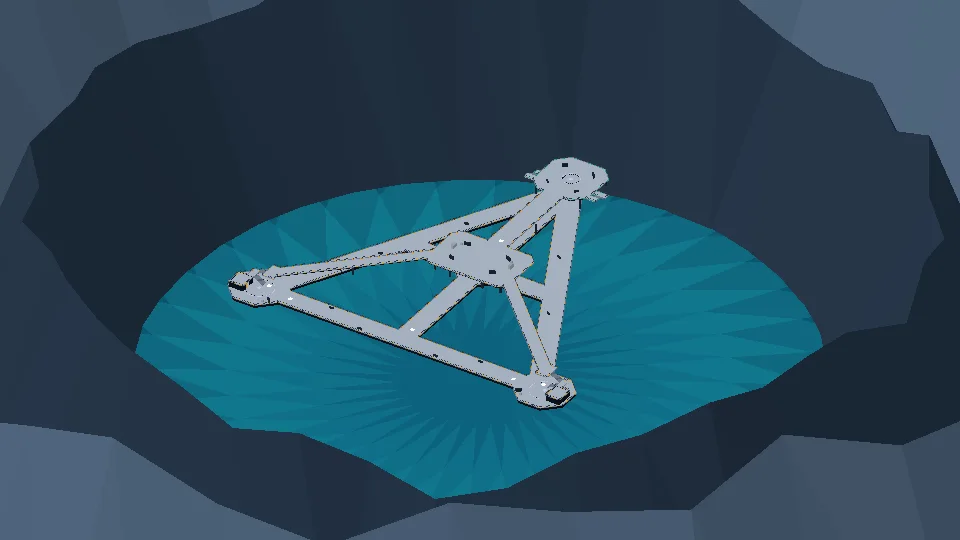
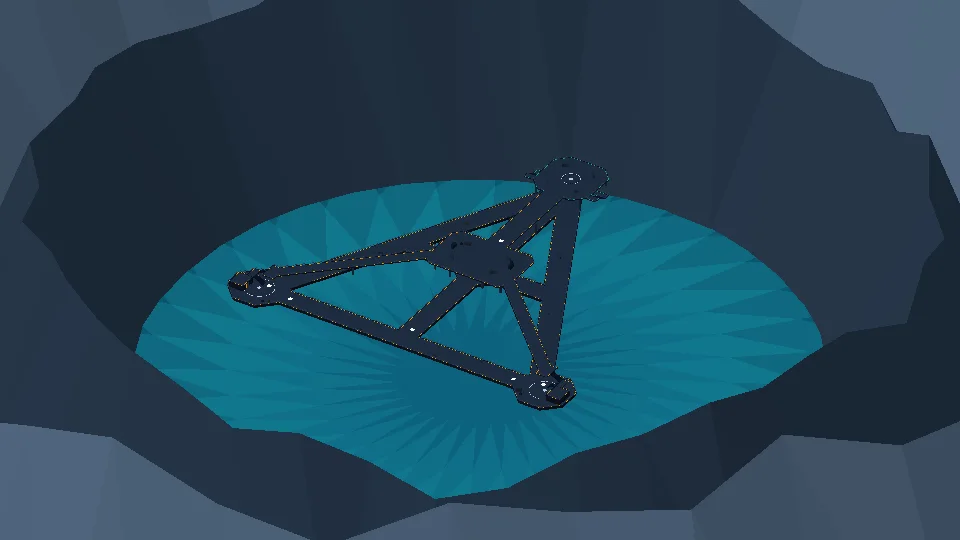
External agent changes

Changed region(s): [[0.2188, 0.2963, 0.6562, 0.7704]]

diff --git a/src/components/duelist/menu/OnlineArenaPreview.jsx b/src/components/duelist/menu/OnlineArenaPreview.jsx
@@ -1,125 +1,20 @@
-import {createIndustrialCtfArena,applyIndustrialCtfLighting} from '../client/maps/industrialCtfArena.mjs';
-import { useEffect, useRef, useState } from 'react';
-import * as THREE from 'three';
-import { createSceneRenderer, destroySceneRenderer } from '../../../lib/webgpuSceneRenderer.js';
-import { createDuelistControlPointArena } from '../client/maps/controlPointArena.mjs';
-import {createEscortArena,applyEscortDaylight} from '../client/maps/escortArena.mjs';
-import {createEscortProps} from '../client/escortProps.mjs';
-import { applyControlPointDaylight } from '../client/maps/controlPointDaylight.mjs';
-import { createArena, createSceneLighting } from '../client/arena.mjs';
-import { getModeArenaLayout } from '../sim/modeArenaLayout.mjs';
+import { useState } from 'react';
+import { mapPicture } from './mapPictures.mjs';
 
-// A lightweight orbiting map overview, not a spectator feed. The actual
-// match runs on the authoritative server even when this browser leaves.
-export default function OnlineArenaPreview({ mode }) {
-  const mountRef = useRef(null);
-  const [failed, setFailed] = useState(false);
-  const [visible, setVisible] = useState(false);
-  useEffect(() => {
-    const mount = mountRef.current;
-    if (!mount) return;
-    if (typeof IntersectionObserver === 'undefined') { setVisible(true); return; }
-    const observer = new IntersectionObserver(([entry]) => setVisible(entry.isIntersecting), { threshold: 0.01 });
-    observer.observe(mount);
-    return () => observer.disconnect();
-  }, []);
-  useEffect(() => {
-    const mount = mountRef.current;
-    if (!mount || !visible) return;
-    setFailed(false);
-    let active = true, frame = 0, renderer, observer, imported, daylight, escort;
-    const scene = new THREE.Scene();
-    const geometry = new THREE.BoxGeometry(1, 1, 1);
-    const materials = new Map();
-    const material = color => {
-      if (!materials.has(color)) materials.set(color, new THREE.MeshBasicMaterial({ color }));
-      return materials.get(color);
-    };
-    const box = (x,y,z,w,h,d,color) => {
-      const mesh = new THREE.Mesh(geometry, material(color));
-      mesh.position.set(x,y,z); mesh.scale.set(w,h,d); scene.add(mesh);
-    };
-    const layout = getModeArenaLayout(mode);
-    const radius = layout?.radius || (mode === 'duel' ? 12 : 18);
-    scene.background = new THREE.Color(0x081422);
-    if(layout?.ctfImported){imported=createIndustrialCtfArena(scene,{preview:true,textureResolution:512});}
-    else if(layout?.escortImported){imported=createEscortArena(scene);escort=createEscortProps(scene);escort.update(0);}
-    else if(layout?.imported){imported=createDuelistControlPointArena(THREE);imported.setLayerVisibility('trusses',false);scene.add(imported.root);}
-    const authoredFloor = layout?.footprint ? createArena({ radius, footprint: layout.footprint }) : null;
-    if (!imported) {
-    if (authoredFloor) {
-      scene.add(authoredFloor.group);
-      scene.add(new THREE.HemisphereLight(0xb8d9ff, 0x334455, 2));
-    } else {
-    box(0,-0.3,0,radius*2,0.5,radius*2,0x192c40);
-    for (const side of [-1,1]) {
-      box(side*radius,0.3,0,0.3,0.6,radius*2,0x44657f);
-      box(0,0.3,side*radius,radius*2,0.6,0.3,0x44657f);
-    }
-    }
-    for (const p of layout?.parts || []) {
-      box((p.x0+p.x1)/2,(p.y0+p.y1)/2,(p.z0+p.z1)/2,p.x1-p.x0,p.y1-p.y0,p.z1-p.z0,
-        p.kind === 'deck' ? 0x53738e : p.kind === 'cover' ? 0x89734d : 0x36526c);
-    }
-    // Distinct objective glyphs for mode identification, not authoritative
-    // objective coordinates. Layout geometry above is shared with simulation.
-    const blue=0x4eb7ff, red=0xff7373, gold=0xe9c175;
-    if(mode === 'control') for (const point of layout?.controlPoints || []) box(point.x,3.45,point.z,2.5,0.3,2.5,gold);
-    else if(mode === 'escort') {
-      box(0,0.05,0,2,0.1,radius*1.65,gold);
-      box(0,0.8,0,2.5,1.6,4,blue);
-    } else if(mode === 'ctf' || mode === 'football' || mode === 'tdm') {
-      box(-radius*0.7,0.2,0,3,0.4,5,blue);
-      box(radius*0.7,0.2,0,3,0.4,5,red);
-    } else if(mode === 'duel') {
-      box(-3,0.1,0,2,0.2,2,blue);box(3,0.1,0,2,0.2,2,red);
-    } else {
-      for(let i=0;i<6;i++) {
-        const a=i*Math.PI/3;box(Math.cos(a)*7,0.1,Math.sin(a)*7,1.5,0.2,1.5,gold);
-      }
-    }
-    }
-    const camera = new THREE.PerspectiveCamera(42,1,0.1,250);
-    const resize = () => {
-      if (!renderer || !active) return;
-      const w=Math.max(1,mount.clientWidth), h=Math.max(1,mount.clientHeight);
-      camera.aspect=w/h;camera.updateProjectionMatrix();renderer.setSize(w,h,false);
-    };
-    try {
-      const created=createSceneRenderer('duelist-adventure',{antialias:false,powerPreference:'low-power'});
-      renderer=created.renderer;
-      if(imported){const lights=createSceneLighting(scene);scene.add(lights.sun.target);renderer.toneMapping=THREE.ACESFilmicToneMapping;daylight=layout.ctfImported?applyIndustrialCtfLighting({scene,camera,renderer,lights,preview:true}):layout.escortImported?applyEscortDaylight({scene,camera,renderer,lights,environment:imported.environment}):applyControlPointDaylight({scene,camera,renderer,lights,materials:imported.materials});}
-      renderer.setPixelRatio(Math.min(window.devicePixelRatio||1,1.25));
-      renderer.domElement.style.cssText='display:block;width:100%;height:100%';
-      renderer.domElement.setAttribute('aria-hidden','true');
-      mount.appendChild(renderer.domElement);
-      Promise.resolve(created.ready).then(()=>{
-        if(!active)return;
-        resize();
-        if(typeof ResizeObserver !== 'undefined') {observer=new ResizeObserver(resize);observer.observe(mount);}
-        let last=0;
-        const draw=t=>{
-          if(!active)return;
-          frame=requestAnimationFrame(draw);
-          if(document.hidden || t-last<66)return;
-          daylight?.update(Math.min(.1,(t-last)/1000));last=t;
-          const angle=window.matchMedia('(prefers-reduced-motion: reduce)').matches ? 0.7 : t*0.00012;
-          if(layout?.ctfImported){imported.update(.066);camera.fov=68;camera.updateProjectionMatrix();camera.position.set(Math.sin(angle)*5,14.6,25.8);camera.lookAt(0,5,-4);}else{camera.position.set(Math.sin(angle)*radius*2.5,radius*2.4,Math.cos(angle)*radius*2.5);camera.lookAt(0,0,0);}
-          try{renderer.render(scene,camera);}catch{setFailed(true);cancelAnimationFrame(frame);}
-        };
-        frame=requestAnimationFrame(draw);
-      }).catch(()=>{if(active)setFailed(true);});
-    } catch {setFailed(true);}
-    return ()=>{
-      active=false;cancelAnimationFrame(frame);observer?.disconnect();
-      daylight?.dispose();escort?.dispose();imported?.dispose();authoredFloor?.dispose();
-      geometry.dispose();for(const m of materials.values())m.dispose();
-      if(renderer){renderer.domElement.remove();destroySceneRenderer(renderer);}
-    };
-  },[mode, visible]);
-  return <div className="relative overflow-hidden rounded border border-white/15 bg-slate-950" style={{height: 'clamp(130px, 28vh, 280px)'}}>
-    <div ref={mountRef} className="absolute inset-0" />
-    {failed && <div className="absolute inset-0 grid place-items-center text-sm text-white/65">3D preview unavailable. Server joining is unaffected.</div>}
-    <span className="pointer-events-none absolute bottom-2 left-3 rounded bg-slate-950/80 px-2 py-1 text-xs text-white/75">3D arena overview · not live footage</span>
-  </div>;
+// A regular static image. Never mount a canvas or load a map while browsing.
+export default function OnlineArenaPreview({ mode, compact = false }) {
+  const src = mapPicture(mode);
+  const [failedSrc, setFailedSrc] = useState(null);
+  return (
+    <div className="relative overflow-hidden rounded border border-white/15 bg-slate-950"
+      style={compact ? {width:'100%', height:'100%', minHeight:80} : {height:'clamp(130px, 28vh, 280px)'}}>
+      {src && failedSrc !== src ? (
+        <img src={src} alt="" width={960} height={540} loading="lazy" decoding="async" draggable={false}
+          className="absolute inset-0 h-full w-full object-cover"
+          onError={() => setFailedSrc(src)} />
+      ) : (
+        <div className="absolute inset-0 grid place-items-center text-xs text-white/65">Map picture unavailable</div>
+      )}
+    </div>
+  );
 }

diff --git a/src/components/duelist/menu/OnlinePlayPage.jsx b/src/components/duelist/menu/OnlinePlayPage.jsx
@@ -1,4 +1,4 @@
-import { lazy, Suspense, useState } from 'react';
+import { useState } from 'react';
 import { useNavigate, useSearch } from '@tanstack/react-router';
 import { RefreshCw, Users, ArrowRight } from 'lucide-react';
 import { MenuShell } from './MenuPages.jsx';
@@ -7,16 +7,13 @@ import { useLobby } from './useLobby.js';
 import OnlineArenaPreview from './OnlineArenaPreview.jsx';
 import { ONLINE_SERVER_MODES, persistentServerCards, serverJoinSearch, localArenaSearch } from './serverBrowser.mjs';
 
-const ImportedControlPointPreview = lazy(() => import('./ImportedControlPointPreview.jsx'));
-
-// Every 3D card represents one exact public room, not a mode queue.
+// Every static map card represents one exact public room, not a mode queue.
 export default function OnlinePlayPage() {
   const navigate = useNavigate();
   const search = useSearch({ strict: false });
   const [mode, setMode] = useState(() =>
     ONLINE_SERVER_MODES.includes(search?.mode) ? search.mode : 'all');
   const [testing, setTesting] = useState(false);
-  const [importPreview, setImportPreview] = useState(false);
   const lobby = useLobby();
   const rooms = persistentServerCards(lobby.online ? lobby.matches : null, mode);
   const playLocal = room => {
@@ -51,8 +48,6 @@ export default function OnlinePlayPage() {
         <button type="button" aria-expanded={testing} onClick={() => setTesting(v => !v)} className="rounded border border-cyan-300/50 px-4 py-2 font-bold text-cyan-200">Test</button>
         {testing && <section className="space-y-2 rounded border border-white/20 p-3" aria-label="Private arena tests">
           <p className="text-sm text-white/70">Enter alone, with bots off. No public server or matchmaking required.</p>
-          <button type="button" aria-expanded={importPreview} onClick={()=>setImportPreview(v=>!v)} className="rounded border border-amber-300/40 px-3 py-2 text-amber-200">{importPreview ? "Close imported map preview" : "Preview new Control Point map"}</button>
-          {importPreview && <Suspense fallback={<p>Loading imported arena…</p>}><ImportedControlPointPreview/></Suspense>}
           <div className="flex flex-wrap gap-2">{ONLINE_SERVER_MODES.map(id => <button key={id} type="button" className="rounded border border-white/20 px-3 py-2 text-white" onClick={() => navigate({ to: '/duelist-next/play', search: { mode: id, online: 0, test: 1, from: 'online-play' } })}>{id === 'control' ? 'Control Point — New two-level map' : MENU_MODES[id]?.title || id}</button>)}</div>
         </section>}
         <p role="status" aria-live="polite" className="text-sm text-white/70">

diff --git a/src/components/duelist/menu/MenuPages.jsx b/src/components/duelist/menu/MenuPages.jsx
@@ -1,3 +1,5 @@
+import OnlineArenaPreview from './OnlineArenaPreview.jsx';
+import {mapPicture} from './mapPictures.mjs';
 // Duelist Adventure's menus, kept simple: a hub, a page for each mode, a Join page that puts you in any match
 // with players in it, your fighter, settings, and the story mission. Each page says what it is in one line
 // and offers one obvious button.
@@ -209,10 +211,8 @@ export function DuelistHub({ initialPanel = null }) {
             </div>
 
             <div className="duelist-hub-mode-detail">
-              <div className="duelist-hub-mode-art" aria-hidden="true">
-                <span className="duelist-hub-mode-art-glow" />
-                <SelectedIcon />
-                <span>{selected?.title || 'Choose a mode'}</span>
+              <div className="duelist-hub-mode-art" aria-hidden="true" data-map-picture={Boolean(mapPicture(selected?.route))}>
+                {mapPicture(selected?.route) ? <OnlineArenaPreview mode={selected.route} compact/> : <><span className="duelist-hub-mode-art-glow" /><SelectedIcon /><span>{selected?.title || 'Choose a mode'}</span></>}
               </div>
               <div className="duelist-hub-mode-content">
                 <h3>{selected?.title || 'Select a mode'}</h3>

diff --git a/src/components/duelist/menu/DuelistTemplateHub.jsx b/src/components/duelist/menu/DuelistTemplateHub.jsx
@@ -1,3 +1,5 @@
+import OnlineArenaPreview from './OnlineArenaPreview.jsx';
+import {mapPicture} from './mapPictures.mjs';
 // Live Duelist Adventure menu UI. The two vector frames contain NO embedded words or character imagery.
 // Everything interactive is accessible React, driven by the actual game catalog / stored class progression.
 import { useEffect, useState } from 'react';
@@ -90,7 +92,7 @@ function ModeSelector({ category, selected, onCategory, onSelect, lobby, prefs, 
           </div>
         </div>
         <aside className="dxt-mode-detail" aria-label="Selected game mode information">
-          <div className="dxt-detail-art" aria-hidden="true"><ModeIcon symbol={selectedIcon}/></div>
+          <div className="dxt-detail-art" aria-hidden="true" data-map-picture={Boolean(mapPicture(mode.route))}>{mapPicture(mode.route) ? <OnlineArenaPreview mode={mode.route} compact/> : <ModeIcon symbol={selectedIcon}/>}</div>
           <div className="dxt-detail-copy">
             <span className="dxt-eyebrow">{tab.title} / {mode.count || 'MODE'}</span>
             <h3>{mode.title}</h3><p>{mode.description}</p>

diff --git a/src/components/duelist/menu/duelistTemplateUI.css b/src/components/duelist/menu/duelistTemplateUI.css
@@ -351,3 +351,7 @@
   .duelist-menu-bottom-link { flex-direction:column; gap:3px; font-size:9px; padding:7px 3px; }
   .duelist-menu-bottom-link svg { width:16px; height:16px; }
 }
+
+.dxt-detail-art[data-map-picture="true"], .duelist-hub-mode-art[data-map-picture="true"] { display:block; padding:0; overflow:hidden; }
+.dxt-detail-art[data-map-picture="true"]::before, .dxt-detail-art[data-map-picture="true"]::after,
+.duelist-hub-mode-art[data-map-picture="true"]::before, .duelist-hub-mode-art[data-map-picture="true"]::after { display:none; }

diff --git a/src/components/duelist/menu/duelistMobileUI.css b/src/components/duelist/menu/duelistMobileUI.css
@@ -351,3 +351,7 @@
   html .dxt-page--reference .dcm-frame { margin:8px 5px; padding:9px; border-radius:9px; }
   html .dxt-page--reference .dsm-frame { margin:8px 5px; padding:9px; border-radius:9px; }
 }
+
+@media (max-width: 900px) {
+  html .dxt-page .dxt-detail-art[data-map-picture="true"] {display:block;height:clamp(80px,21vh,130px);min-height:80px;}
+}
